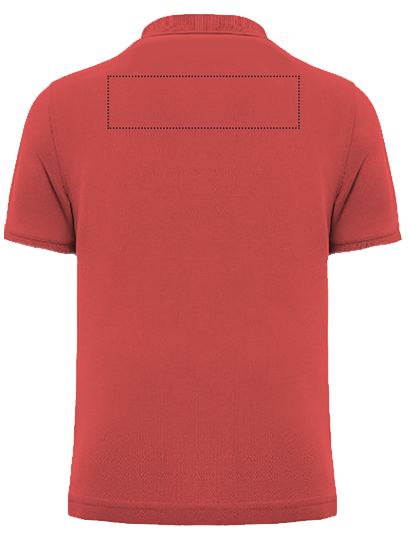
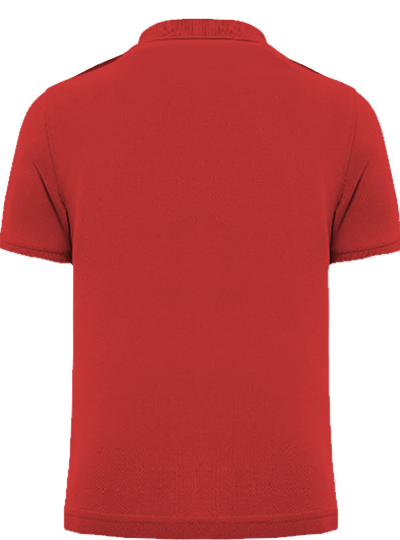
updated

diff --git a/desig-lab-new/renderer.js b/desig-lab-new/renderer.js
@@ -5,8 +5,8 @@ let dataObject = {
   clothType: "polo-t-shirt",
   printType: "ScreenPrint",
   mainColorHueValue: 100,
-  mainColorSaturateValue: 0,
-  mainColorLevelValue: 2,
+  mainColorSaturateValue: 1,
+  mainColorLevelValue: 1,
   clothOption: {
     sleves: "shortSleeves",
     neck: "vneck",
